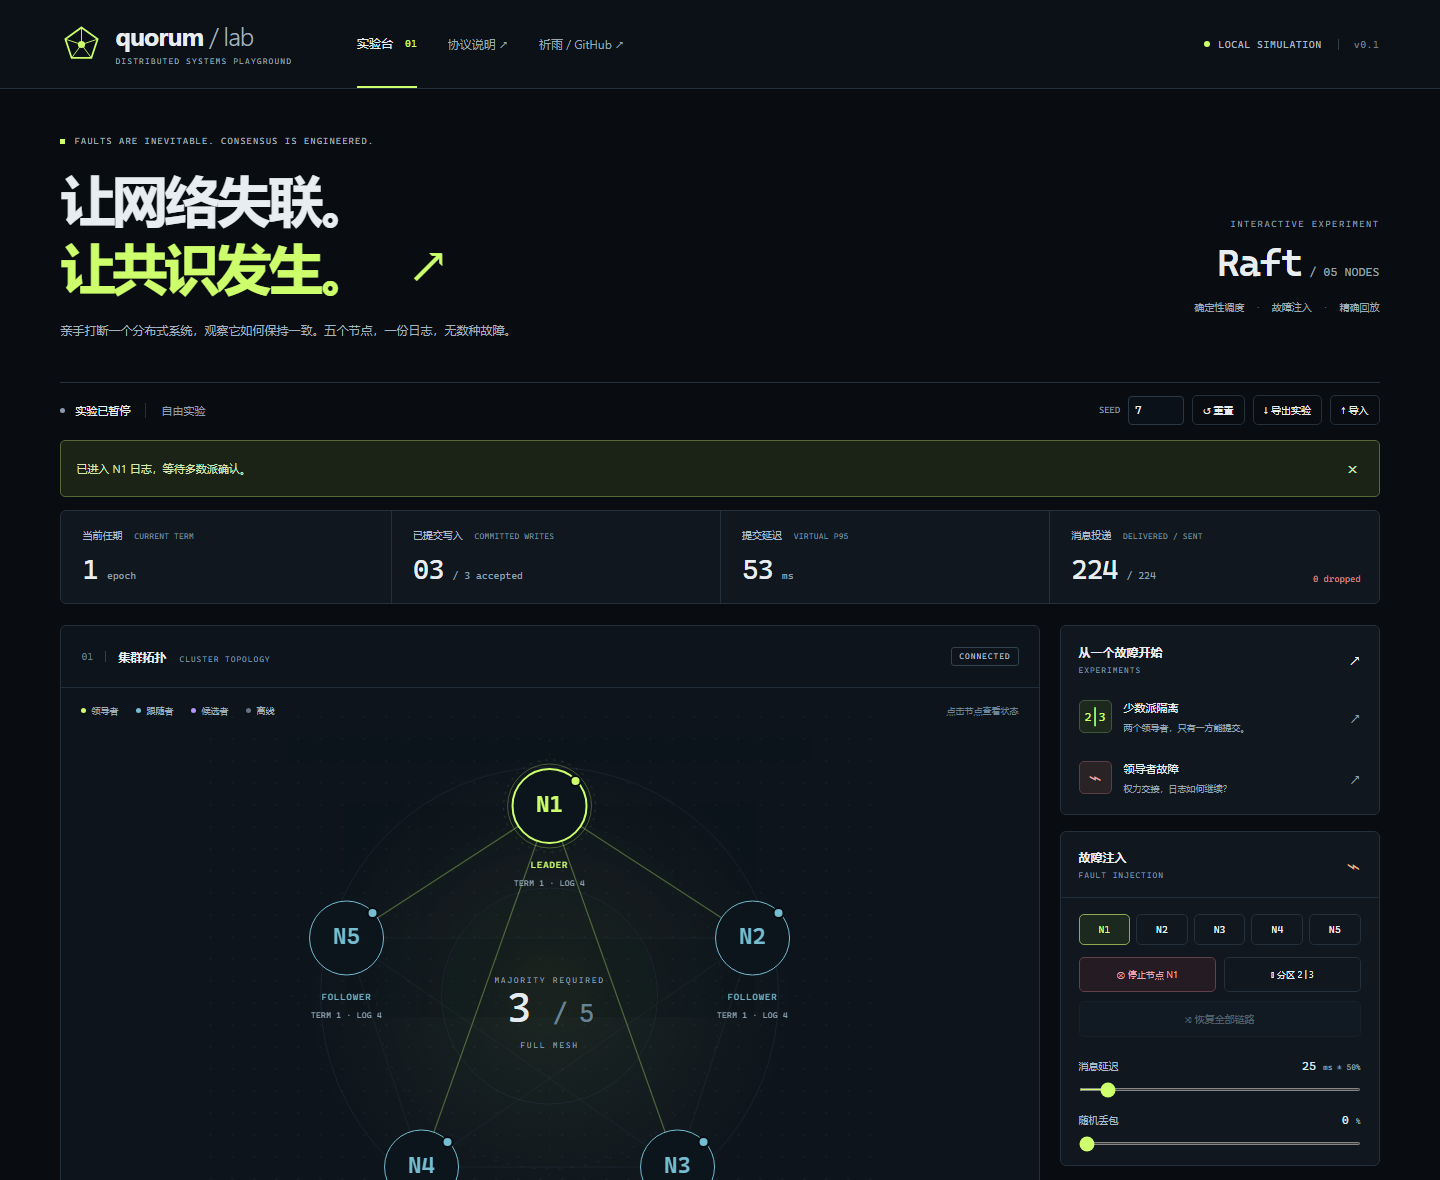
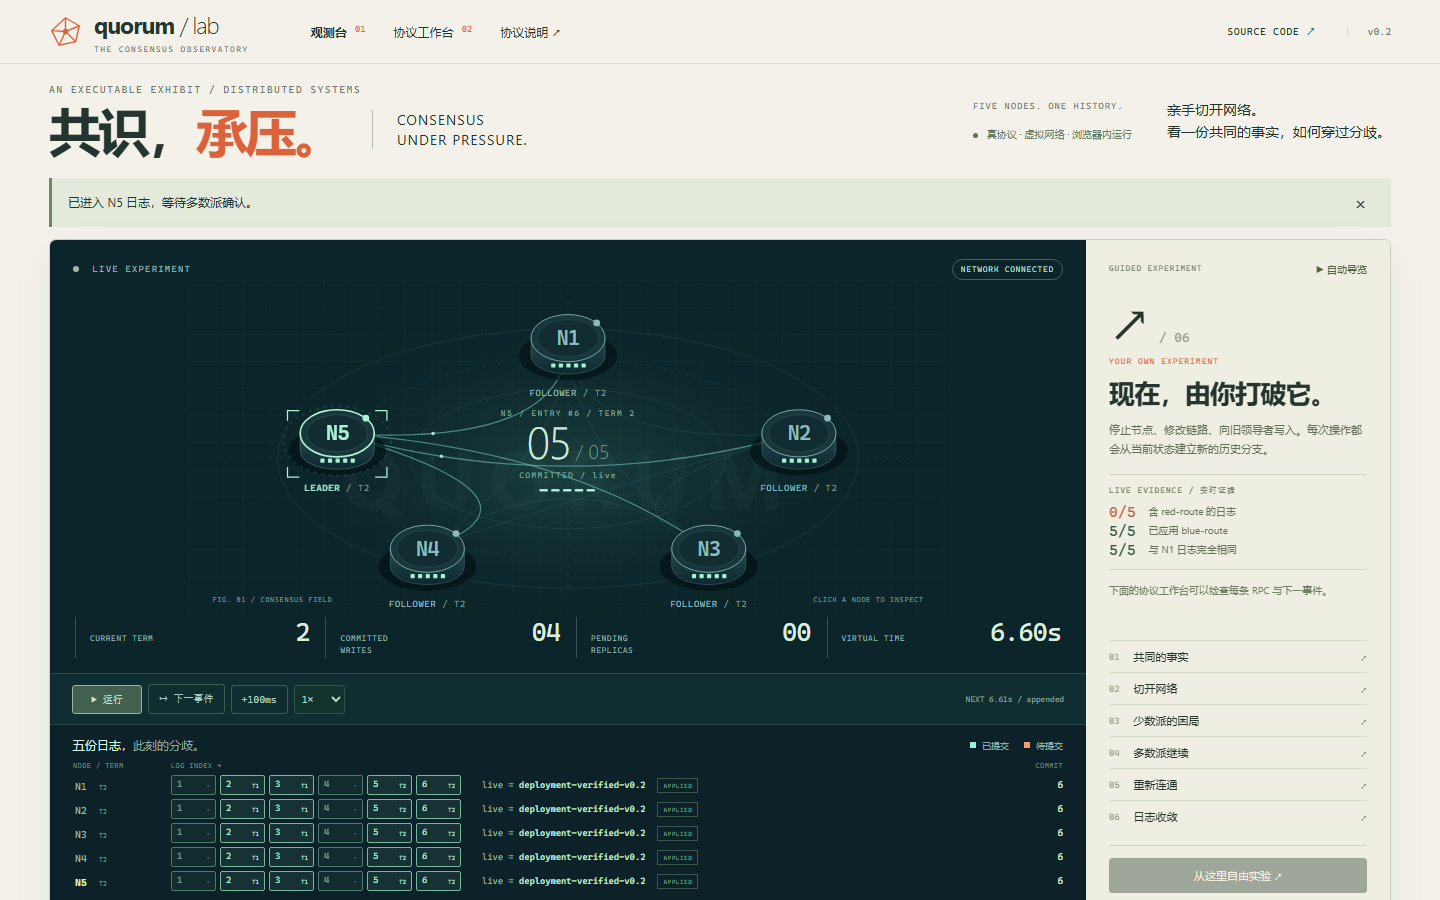
Verify the live observatory and automate checked version releases after deployment

diff --git a/scripts/package-release.py b/scripts/package-release.py
@@ -1,0 +1,74 @@
+"""Package the checked-out revision and its verified production build. Standard library only."""
+
+import argparse
+import hashlib
+import json
+from pathlib import Path
+import shutil
+import subprocess
+import tempfile
+import zipfile
+
+
+parser = argparse.ArgumentParser()
+parser.add_argument('--out', default='release')
+args = parser.parse_args()
+repo = Path(__file__).resolve().parents[1]
+output = Path(args.out).resolve()
+output.mkdir(parents=True, exist_ok=True)
+version = json.loads((repo / 'package.json').read_text(encoding='utf-8'))['version']
+prefix = f'quorum-lab-v{version}'
+if not (repo / 'dist' / 'index.html').is_file():
+    raise SystemExit('Build the production application before packaging.')
+
+head = subprocess.check_output(['git', 'rev-parse', 'HEAD'], cwd=repo).strip()
+main = subprocess.check_output(['git', 'rev-parse', 'main'], cwd=repo).strip()
+if head != main:
+    raise SystemExit('Package main at the exact checked-out revision.')
+
+source = output / f'{prefix}-source.zip'
+subprocess.run(['git', 'archive', '--format=zip', '--prefix=quorum-lab/',
+                f'--output={source}', 'HEAD'], cwd=repo, check=True)
+
+demo = output / f'{prefix}-demo.zip'
+with tempfile.TemporaryDirectory(prefix='quorum-package-', dir=output) as directory:
+    staging = Path(directory) / 'quorum-lab-demo'
+    shutil.copytree(repo / 'dist', staging / 'site')
+    shutil.copytree(repo / 'docs' / 'experiments', staging / 'experiments')
+    shutil.copy2(repo / 'scripts' / 'serve.mjs', staging / 'serve.mjs')
+    shutil.copy2(repo / 'LICENSE', staging / 'LICENSE')
+    (staging / 'START.cmd').write_bytes(
+        b'@echo off\r\ncd /d "%~dp0"\r\nnode serve.mjs site --open\r\npause\r\n')
+    (staging / 'README.txt').write_text(
+        f'Quorum Lab v{version} - portable production observatory\n\n'
+        'Requires Node.js 22.12+ and a modern browser. No npm install needed.\n'
+        'Windows: double-click START.cmd.\n'
+        'Other platforms: node serve.mjs site\n'
+        'Open http://127.0.0.1:4173/quorum-lab/\n'
+        'Use the automatic six-chapter tour or import a fixture from experiments/.\n'
+        'The simulation and all UI assets run locally.\n'
+        'Source: https://github.com/qiyuhuating/quorum-lab\n', encoding='utf-8')
+    with zipfile.ZipFile(demo, 'w', zipfile.ZIP_DEFLATED) as archive:
+        for file in sorted(staging.rglob('*')):
+            if file.is_file():
+                archive.write(file, file.relative_to(staging.parent))
+
+for file in (source, demo):
+    with zipfile.ZipFile(file) as archive:
+        if archive.testzip() is not None:
+            raise SystemExit(f'Archive integrity check failed: {file.name}')
+with zipfile.ZipFile(source) as archive:
+    packaged = json.loads(archive.read('quorum-lab/package.json'))
+    if packaged['version'] != version:
+        raise SystemExit('Source version differs from the packaged build.')
+
+bundle = output / f'{prefix}.bundle'
+subprocess.run(['git', 'bundle', 'create', str(bundle), 'main'], cwd=repo, check=True)
+subprocess.run(['git', 'bundle', 'verify', str(bundle)], cwd=repo,
+               check=True, stdout=subprocess.DEVNULL)
+checksums = output / 'SHA256SUMS.txt'
+checksums.write_text(''.join(
+    f'{hashlib.sha256(file.read_bytes()).hexdigest()}  {file.name}\n'
+    for file in (source, demo, bundle)), encoding='utf-8')
+for file in (source, demo, bundle, checksums):
+    print(f'{file.name}: {file.stat().st_size} bytes')

diff --git a/docs/publish.md b/docs/publish.md
@@ -2,18 +2,20 @@
 
 Repository: [qiyuhuating/quorum-lab](https://github.com/qiyuhuating/quorum-lab), public, MIT.
 
-The GitHub connector has no create-repository operation. The user's existing authenticated GitHub CLI login created the empty repository. The connector's contents/blob/tree/commit/ref operations upload the source and captured media. CLI administration handles Pages settings, repository metadata and release assets where the connector does not expose those operations. No new credentials or tokens are required.
+The connected GitHub plugin uploads source/media through blob, tree, commit and ref operations. It exposes no repository-create or release-admin operation. The initial repository was created with the user's existing GitHub CLI login. The v0.2 release is built and published inside GitHub Actions using its repository-scoped token.
 
-## Deployment pipeline
+## Verified pipeline
 
-1. Each pull request and push runs formatting, strict TypeScript checks, protocol tests and a production build.
-2. Chromium, Firefox and WebKit run the browser suite against that build. The 100-seed benchmark checks safety, convergence and exact replay.
-3. A successful `main` run uploads `dist/` as a Pages artifact.
-4. The deployment job publishes it using the dedicated Pages environment and OIDC token.
+1. Pull requests and pushes run formatting, strict types, 18 protocol tests and the production build.
+2. Chromium, Firefox and WebKit run 39 production browser checks. The 100-seed benchmark verifies safety, convergence and exact replay.
+3. Successful main verification publishes the Pages artifact through the OIDC Pages environment.
+4. After verification and deployment, the release job reads the version in package.json. An existing public release is left unchanged.
+5. For a new version, it rebuilds the exact revision and generates source ZIP, portable demo ZIP, a complete Git bundle and SHA-256 checksums.
+6. ZIP integrity, source-version agreement and Git bundle integrity are checked before publishing. An unfinished draft can be retried; the complete release is then made public.
 
-The repository's Pages Source is GitHub Actions. Deployment status is visible in [Actions](https://github.com/qiyuhuating/quorum-lab/actions). `docs/validation.md` records verified outcomes; a link to the live demo belongs in README only after its page and Worker load successfully.
+[Actions](https://github.com/qiyuhuating/quorum-lab/actions) exposes the results. [validation.md](validation.md) records tests; [live-check.json](live-check.json) records actual public-page behavior.
 
-## Reproduce from source
+## Reproduce
 
 ```sh
 git clone https://github.com/qiyuhuating/quorum-lab.git
@@ -24,10 +26,16 @@ npx playwright install --with-deps chromium firefox webkit
 npm run test:e2e
 ```
 
-To rerun an existing failed workflow, inspect its logs and repair the reported cause before retrying. Do not deploy an unchecked manual build to sidestep the verification gate.
+To package an existing production build, use Python 3 and Git:
 
-## Release materials
+```sh
+python scripts/package-release.py --out release
+```
 
-The v0.2.0 release uses [release-notes.md](release-notes.md). Portable demo and source archives are generated from the delivered revision. [demo-script.md](demo-script.md) provides a 90-second walkthrough. [profile-snippet.md](profile-snippet.md) is available for a later deliberate profile update.
+The checked-out revision must match local main. The portable demo needs only Node.js 22.12+ and a browser; Python and npm are not required to run it.
 
-All remote writes for this delivery are scoped to the new `quorum-lab` repository. `yihe-health` and the other audited repositories are independent.
+## Version publishing
+
+Bump package.json and package-lock.json, update release-notes.md, then commit to main through the connector. CI creates a public release only after all gates succeed. Existing public versions are immutable in this workflow. Repair failed checks before retrying; do not bypass the verification gate.
+
+All writes are scoped to quorum-lab. yihe-health and the other audited repositories remain independent.

diff --git a/docs/validation.md b/docs/validation.md
@@ -34,7 +34,11 @@ Screenshots and video in [media/](media/) come from the production app without s
 
 ## Deployment evidence
 
-The [public observatory](https://qiyuhuating.github.io/quorum-lab/) publishes only after formatting, protocol/browser tests and benchmark gates pass. [live-check.json](live-check.json) records the latest executed online browser check; its version identifies the checked release. Source and media are published through GitHub connector Git data operations.
+The v0.2 source passed verification and Pages deployment on Ubuntu in [run 36802348560](https://github.com/qiyuhuating/quorum-lab/actions/runs/36802348560). The [public observatory](https://qiyuhuating.github.io/quorum-lab/) returned HTTP 200 and passed actual six-chapter, automatic-guide, RPC and event-step checks. A new `live=deployment-verified-v0.2` proposal increased committed writes from three to four and appeared in the applied state machine. All four responsive widths fit, with zero page errors, failed requests or safety violations. [live-check.json](live-check.json) records the full result.
+
+The portable ZIP was unpacked into a separate directory and launched with its bundled Node server. Its production Worker completed minority and healed chapters with zero external requests. Source/demo ZIP checks and full Git-bundle verification passed locally. The automated release job repeats artifact integrity checks after the verification and Pages gates.
+
+Source and media are published through GitHub connector Git data operations. Published release versions are preserved; unfinished draft releases can resume uploads before becoming public.
 
 ## Limits
 

diff --git a/docs/release-notes.md b/docs/release-notes.md
@@ -10,9 +10,10 @@ A substantial redesign of the independent five-node Raft laboratory.
 - Inline proposal values, log divergence, node state, pinned baseline comparison and replay branching.
 - Keyboard interaction and reduced motion; all assets and simulation remain local to the browser.
 - Updated screenshots, actual production recording, interview walkthrough and portable demo.
+- Version-aware Actions release pipeline with checked source/demo ZIPs, complete Git bundle, checksums and resumable draft publication.
 
 Validation: 18 engine tests, 39 production tests across Chromium/Firefox/WebKit, 100 exact full-snapshot benchmark replays, 523,843 runtime state checks and zero detected safety violations.
 
-The source/media commit uses the connected GitHub blob/tree/commit/ref tools. Existing GitHub CLI authentication supplies release administration. The gated Pages workflow runs the verification suite before deployment.
+The source/media commit uses the connected GitHub blob/tree/commit/ref tools. The Actions release job performs publication after verification and Pages deployment. The public observatory has also passed an actual new committed write, six-chapter/guide completion, event/RPC inspection and all four responsive widths, with zero page errors or safety violations.
 
 Scope: fixed membership, symmetric partitions and simulated stable storage. No real disk durability, member reconfiguration, exactly-once client semantics, linearizable reads or formal correctness proof.

diff --git a/docs/architecture.md b/docs/architecture.md
@@ -93,3 +93,7 @@ Packets retain a cloned actual RPC payload, status and send/delivery drop cause.
 The queue exposes twelve still-active scheduled events sorted by `(at, seq)`. `step` processes one such event, consuming invalidated timers that precede it. Messages that will be dropped at delivery remain active events. Step actions extend the version-1 action union: v0.2 accepts v0.1 files, while v0.1 cannot interpret new step actions. Imports prevalidate advance durations and rebuild in a temporary simulator; runtime bounds also enforce elapsed time reached through steps before replacing the active experiment.
 
 Pinned baselines are copied observation snapshots. Comparison reports changed node internals and committed-write delta; it is not a linearizability certificate or causal proof. Rewind retains source history until a new action branches.
+
+## Automated artifacts
+
+After successful verification and Pages deployment, the version-aware release job packages the exact main revision. It verifies ZIP integrity, archived package version and complete Git bundle, then uploads checksums and artifacts to a draft release. The release becomes public only after all uploads succeed. Already published versions are skipped. The GitHub Actions token is scoped to repository contents for this job; Pages retains its own OIDC permissions.

diff --git a/docs/roadmap.md b/docs/roadmap.md
@@ -36,3 +36,7 @@
 - Durable storage adapter with explicit fsync and recovery semantics in a separate runtime.
 
 Only the first two sections are implemented. Runtime observation and sampled testing do not establish a formal proof.
+
+## v0.2 release engineering
+
+Production CI also builds and checks source ZIP, a Node-only portable demo, a complete Git bundle and SHA-256 checksums. New versions are published automatically after verification and Pages deployment. Existing public release artifacts remain unchanged.

diff --git a/README.md b/README.md
@@ -108,7 +108,7 @@ tests/         协议、故障、安全与检查点证据
 e2e/           Chromium / Firefox / WebKit 生产交互验收
 scripts/       静态服务器、基准、真实演示采集
 docs/          架构、验收、演示素材与路线图
-.github/       CI 与 GitHub Pages 部署门禁
+.github/       CI、Pages 与带校验的自动版本发布
 ```
 
 [MIT](LICENSE) © 2026 qiyuhuating
